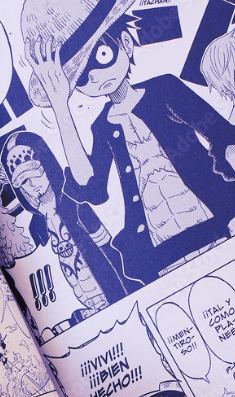
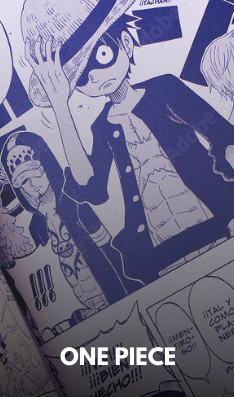
Changes

diff --git a/Discover.html b/Discover.html
@@ -48,7 +48,7 @@ display: table;
     <!--background image on the top of the page-->
     <figure style="margin-left: 0px;margin-right: 0px;margin-top: 0px;margin-bottom: 0px;">
         <picture>
-            <img width="100%" height="120%" src="photos/MANGA (1).png">
+            <img width="100%" height="120%" src="photos/discover.png">
         </picture>
     </figure>
     <!--section about into to recomendations-->
@@ -57,14 +57,38 @@ display: table;
         <h1 style=" margin-top: 0px; padding-top: 20px; font-size:xx-large; color: #ffffff; font-family:Verdana, Geneva, Tahoma, sans-serif;text-align: center; margin-right: 20px;margin-bottom: 20px;margin-left: 20px; ;">DISCOVER</h1>
         <p style="color:#e7dbff; font-family: 'Tahoma'; padding: 15px 20px; size: 10px;text-align: center">Lorem ipsum dolor sit amet, consectetur adipiscing elit. Sed do eiusmod tempor incididunt ut labore et dolore magna aliqua. Ut enim ad minim veniam, quis nostrud exercitation ullamco laboris nisi ut aliquip ex ea commodo consequat. Duis aute irure dolor in reprehenderit in voluptate velit esse cillum dolore eu fugiat nulla pariatur. Excepteur sint occaecat cupidatat non proident, sunt in culpa qui officia deserunt mollit anim id est laborum.</p>
         <br/>
+        <table style="color: #e7dbff;font-family: Verdana, Geneva, Tahoma, sans-serif;margin: auto;margin-left: 35%;margin-right: auto;">
+            <tr>
+                <th style="background-color: #4d347c; color: #7667ce;" >author<sub>s</sub></th>
+                <th style="background-color: #4d347c; color: #7667ce;" >title</th>
+                <th style="background-color: #4d347c; color:  #7667ce;" >year</th>
+            </tr>
+            <tr>
+                <th>원곡 - Stella Jang</th>
+                <th>Villain Utattemita </th>
+                <th>Ado</th>
+            </tr>
+            <tr>
+                <th>なとり - Natori</th>
+                <th>OVERDOSE</th>
+                <th>Ado</th>
+            </tr>
+            <tr>
+                <th>원곡 - LE SSERAFIM</th>
+                <th>Blue Flame cover  </th>
+                <th>Ado</th>
+            </tr>
+        </table>
+        <br>
+        <br>
     </section>
         <!--section action manga links-->
         <section style="background-color: #e7dbff;margin-top: -8px;">
             <h2 style=" margin-top: 0px; padding-top: 20px; font-size:xx-large; color: #4d347c; font-family:Verdana, Geneva, Tahoma, sans-serif;text-align: center; margin-right: 20px;margin-bottom: 20px;margin-left: 20px; ;">ACTION</h2>
             <table  style="margin: 0px auto;">
-                <td><a href="https://myanimelist.net/manga/2/Berserk" target="_blank"><img src="photos/2.png" style=" margin: auto; padding-left: 25px; padding-top: 10%;padding-right: 25px;padding-bottom: 10%;" width="250" height="400" alt="sailor moon"></a></td>
-                <td><a href="https://myanimelist.net/manga/23390/Shingeki_no_Kyojin" target="_blank"><img src="photos/2.png" style="margin: auto; padding-left: 25px; padding-top: 10%;padding-right: 25px;padding-bottom: 10%;" width="250" height="400" alt="one piece"></a></td>
-                <td><a href="https://myanimelist.net/manga/13/One_Piece"target="_blank"><img src="photos/2.png" style=" margin: auto; padding-left: 25px; padding-top: 10%;padding-right: 25px;padding-bottom: 10%;" width="250" height="400" alt="demon slayer"></a></td>
+                <td><a href="https://myanimelist.net/manga/2/Berserk" target="_blank"><img src="photos/6.png" style=" margin: auto; padding-left: 25px; padding-top: 10%;padding-right: 25px;padding-bottom: 10%;" width="250" height="400" alt="Berserk"></a></td>
+                <td><a href="https://myanimelist.net/manga/23390/Shingeki_no_Kyojin" target="_blank"><img src="photos/8.png" style="margin: auto; padding-left: 25px; padding-top: 10%;padding-right: 25px;padding-bottom: 10%;" width="250" height="400" alt="attack on titan"></a></td>
+                <td><a href="https://myanimelist.net/manga/13/One_Piece"target="_blank"><img src="photos/2.png" style=" margin: auto; padding-left: 25px; padding-top: 10%;padding-right: 25px;padding-bottom: 10%;" width="250" height="400" alt="one piece"></a></td>
             </table>
         <br/>
         </section>
@@ -72,29 +96,80 @@ display: table;
         <section style="background-color: #4d347c;margin-top: -8px;">
             <h2 style=" margin-top: 0px; padding-top: 20px; font-size:xx-large; color: #e7dbff; font-family:Verdana, Geneva, Tahoma, sans-serif;text-align: center; margin-right: 20px;margin-bottom: 20px;margin-left: 20px; ;">COMEDY</h2>
             <table  style="margin: 0px auto;">
-                <td><a href="https://myanimelist.net/manga/44347/One_Punch-Man" target="_blank"><img src="photos/2.png" style=" margin: auto; padding-left: 25px; padding-top: 10%;padding-right: 25px;padding-bottom: 10%;" width="250" height="400" alt="sailor moon"></a></td>
-                <td><a href="https://myanimelist.net/manga/30/Ouran_Koukou_Host_Club" target="_blank"><img src="photos/2.png" style="margin: auto; padding-left: 25px; padding-top: 10%;padding-right: 25px;padding-bottom: 10%;" width="250" height="400" alt="one piece"></a></td>
-                <td><a href="https://myanimelist.net/manga/37755/Saiki_Kusuo_no_%CE%A8-nan"target="_blank"><img src="photos/2.png" style=" margin: auto; padding-left: 25px; padding-top: 10%;padding-right: 25px;padding-bottom: 10%;" width="250" height="400" alt="demon slayer"></a></td>
+                <td><a href="https://myanimelist.net/manga/99007/Komi-san_wa_Comyushou_desu?q=komi%20&cat=manga" target="_blank"><img src="photos/11.png" style=" margin: auto; padding-left: 25px; padding-top: 10%;padding-right: 25px;padding-bottom: 10%;" width="250" height="400" alt="Komi can't communicate"></a></td>
+                <td><a href="https://myanimelist.net/manga/30/Ouran_Koukou_Host_Club" target="_blank"><img src="photos/12.png" style="margin: auto; padding-left: 25px; padding-top: 10%;padding-right: 25px;padding-bottom: 10%;" width="250" height="400" alt="Ouran Koukou Host Club"></a></td>
+                <td><a href="https://myanimelist.net/manga/37755/Saiki_Kusuo_no_%CE%A8-nan"target="_blank"><img src="photos/22.png" style=" margin: auto; padding-left: 25px; padding-top: 10%;padding-right: 25px;padding-bottom: 10%;" width="250" height="400" alt="Saiki Kusuo"></a></td>
             </table>
         <br/>
         </section>
-        <!--section comedy manga links-->
-        <section style="background-color: #e7dbff;margin-top: -8px;">
+        <!--section romance manga links-->
+        <section id="romance manga" style="background-color: #e7dbff;margin-top: -8px;">
             <h2 style=" margin-top: 0px; padding-top: 20px; font-size:xx-large; color: #4d347c; font-family:Verdana, Geneva, Tahoma, sans-serif;text-align: center; margin-right: 20px;margin-bottom: 20px;margin-left: 20px; ;">ROMANCE</h2>
             <table  style="margin: 0px auto;">
-                <td><a href="https://myanimelist.net/manga/42451/Horimiya" target="_blank"><img src="photos/2.png" style=" margin: auto; padding-left: 25px; padding-top: 10%;padding-right: 25px;padding-bottom: 10%;" width="250" height="400" alt="sailor moon"></a></td>
-                <td><a href="https://myanimelist.net/manga/102/Fruits_Basket" target="_blank"><img src="photos/2.png" style="margin: auto; padding-left: 25px; padding-top: 10%;padding-right: 25px;padding-bottom: 10%;" width="250" height="400" alt="one piece"></a></td>
-                <td><a href="https://myanimelist.net/manga/92/Bishoujo_Senshi_Sailor_Moon"target="_blank"><img src="photos/2.png" style=" margin: auto; padding-left: 25px; padding-top: 10%;padding-right: 25px;padding-bottom: 10%;" width="250" height="400" alt="demon slayer"></a></td>
+                <td><a href="https://myanimelist.net/manga/42451/Horimiya" target="_blank"><img src="photos/16.png" style=" margin: auto; padding-left: 25px; padding-top: 10%;padding-right: 25px;padding-bottom: 10%;" width="250" height="400" alt="Horimiya"></a></td>
+                <td><a href="https://myanimelist.net/manga/102/Fruits_Basket" target="_blank"><img src="photos/9.png" style="margin: auto; padding-left: 25px; padding-top: 10%;padding-right: 25px;padding-bottom: 10%;" width="250" height="400" alt="FruitsBasket"></a></td>
+                <td><a href="https://myanimelist.net/manga/92/Bishoujo_Senshi_Sailor_Moon"target="_blank"><img src="photos/1.png" style=" margin: auto; padding-left: 25px; padding-top: 10%;padding-right: 25px;padding-bottom: 10%;" width="250" height="400" alt="sailor moon"></a></td>
             </table>
         <br/>
         </section>
-        <!--section comedy manga links-->
-        <section style="background-color: #e7dbff;margin-top: -8px;">
-            <h2 style=" margin-top: 0px; padding-top: 20px; font-size:xx-large; color: #4d347c; font-family:Verdana, Geneva, Tahoma, sans-serif;text-align: center; margin-right: 20px;margin-bottom: 20px;margin-left: 20px; ;">FANTASY</h2>
+        <!--section fantasy manga links-->
+        <section style="background-color: #4d347c;margin-top: -8px;">
+            <h2 style=" margin-top: 0px; padding-top: 20px; font-size:xx-large; color: #e7dbff; font-family:Verdana, Geneva, Tahoma, sans-serif;text-align: center; margin-right: 20px;margin-bottom: 20px;margin-left: 20px; ;">FANTASY</h2>
             <table  style="margin: 0px auto;">
-                <td><a href="https://myanimelist.net/anime/6702/Fairy_Tail" target="_blank"><img src="photos/2.png" style=" margin: auto; padding-left: 25px; padding-top: 10%;padding-right: 25px;padding-bottom: 10%;" width="250" height="400" alt="sailor moon"></a></td>
-                <td><a href="https://myanimelist.net/anime/11061/Hunter_x_Hunter_2011" target="_blank"><img src="photos/2.png" style="margin: auto; padding-left: 25px; padding-top: 10%;padding-right: 25px;padding-bottom: 10%;" width="250" height="400" alt="one piece"></a></td>
-                <td><a href="https://myanimelist.net/anime/20/Naruto"target="_blank"><img src="photos/2.png" style=" margin: auto; padding-left: 25px; padding-top: 10%;padding-right: 25px;padding-bottom: 10%;" width="250" height="400" alt="demon slayer"></a></td>
+                <td><a href="https://myanimelist.net/anime/6702/Fairy_Tail" target="_blank"><img src="photos/7.png" style=" margin: auto; padding-left: 25px; padding-top: 10%;padding-right: 25px;padding-bottom: 10%;" width="250" height="400" alt="Fairy Tail"></a></td>
+                <td><a href="https://myanimelist.net/manga/11/Naruto" target="_blank"><img src="photos/15.png" style="margin: auto; padding-left: 25px; padding-top: 10%;padding-right: 25px;padding-bottom: 10%;" width="250" height="400" alt="naruto"></a></td>
+                <td><a href="https://myanimelist.net/manga/96792/Kimetsu_no_Yaiba"target="_blank"><img src="photos/3.png" style=" margin: auto; padding-left: 25px; padding-top: 10%;padding-right: 25px;padding-bottom: 10%;" width="250" height="400" alt="demon slayer"></a></td>
             </table>
         <br/>
         </section>
+        <!--section slice of life manga links-->
+        <section style="background-color: #e7dbff;margin-top: -8px;">
+            <h2 style=" margin-top: 0px; padding-top: 20px; font-size:xx-large; color: #4d347c; font-family:Verdana, Geneva, Tahoma, sans-serif;text-align: center; margin-right: 20px;margin-bottom: 20px;margin-left: 20px; ;">SLICE OF LIFE</h2>
+            <table  style="margin: 0px auto;">
+                <td><a href="https://myanimelist.net/manga/4632/Oyasumi_Punpun" target="_blank"><img src="photos/17.png" style=" margin: auto; padding-left: 25px; padding-top: 10%;padding-right: 25px;padding-bottom: 10%;" width="250" height="400" alt="Oyasumi Punpun"></a></td>
+                <td><a href="https://myanimelist.net/manga/41629/Hyouka" target="_blank"><img src="photos/18.png" style="margin: auto; padding-left: 25px; padding-top: 10%;padding-right: 25px;padding-bottom: 10%;" width="250" height="400" alt="Hyouka"></a></td>
+                <td><a href="https://myanimelist.net/manga/3378/Kimi_ni_Todoke"target="_blank"><img src="photos/19.png" style=" margin: auto; padding-left: 25px; padding-top: 10%;padding-right: 25px;padding-bottom: 10%;" width="250" height="400" alt="Kimi ni Todoke"></a></td>
+            </table>
+        <br/>
+        </section>
+        <!--section mystery & thrill manga links-->
+        <section style="background-color: #4d347c;margin-top: -8px;">
+            <h2 style=" margin-top: 0px; padding-top: 20px; font-size:xx-large; color: #e7dbff; font-family:Verdana, Geneva, Tahoma, sans-serif;text-align: center; margin-right: 20px;margin-bottom: 20px;margin-left: 20px; ;">MYSTERY & THRILL</h2>
+            <table  style="margin: 0px auto;">
+                <td><a href="https://myanimelist.net/manga/21/Death_Note" target="_blank"><img src="photos/13.png" style=" margin: auto; padding-left: 25px; padding-top: 10%;padding-right: 25px;padding-bottom: 10%;" width="250" height="400" alt="Death Note"></a></td>
+                <td><a href="https://myanimelist.net/manga/56529/Bungou_Stray_Dogs" target="_blank"><img src="photos/20.png" style="margin: auto; padding-left: 25px; padding-top: 10%;padding-right: 25px;padding-bottom: 10%;" width="250" height="400" alt="Bungou Stray Dogs"></a></td>
+                <td><a href="https://myanimelist.net/manga/1706/JoJo_no_Kimyou_na_Bouken_Part_7__Steel_Ball_Run"target="_blank"><img src="photos/5.png" style=" margin: auto; padding-left: 25px; padding-top: 10%;padding-right: 25px;padding-bottom: 10%;" width="250" height="400" alt="JoJo's bizare adventures"></a></td>
+            </table>
+        <br/>
+        </section>
+        <!--section sports manga links-->
+        <section style="background-color: #e7dbff;margin-top: -8px;">
+            <h2 style=" margin-top: 0px; padding-top: 20px; font-size:xx-large; color: #4d347c; font-family:Verdana, Geneva, Tahoma, sans-serif;text-align: center; margin-right: 20px;margin-bottom: 20px;margin-left: 20px; ;">SPORT</h2>
+            <table  style="margin: 0px auto;">
+                <td><a href="https://myanimelist.net/manga/35243/Haikyuu" target="_blank"><img src="photos/14.png" style=" margin: auto; padding-left: 25px; padding-top: 10%;padding-right: 25px;padding-bottom: 10%;" width="250" height="400" alt="Haikyuu"></a></td>
+                <td><a href="https://myanimelist.net/manga/114745/Blue_Lock" target="_blank"><img src="photos/10.png" style="margin: auto; padding-left: 25px; padding-top: 10%;padding-right: 25px;padding-bottom: 10%;" width="250" height="400" alt="Blue Lock"></a></td>
+                <td><a href="https://myanimelist.net/manga/51/Slam_Dunk"target="_blank"><img src="photos/21.png" style=" margin: auto; padding-left: 25px; padding-top: 10%;padding-right: 25px;padding-bottom: 10%;" width="250" height="400" alt="Slam Dunk"></a></td>
+            </table>
+        <br/>
+        </section>
+        <br/>
+        <br/>
+        <footer style="background-color: #7667ce;color:#e7dbff; font-family: 'Tahoma';">
+                    <section style="font-family: 'Tahoma'; margin: auto;margin-left: 45%;margin-right: auto;">
+                        <br/>
+                        
+                            <h3 style="background-color: #7667ce;color:#e7dbff; font-family: 'Tahoma'">LEARN MORE</h3>
+                            <ul style="margin: auto;margin-left: -8%;margin-right: auto;">
+                            <li><a href="https://mail.google.com/mail/u/0/#inbox">CONTACT US</a></li>
+                            <li><a href="https://myanimelist.net/">SOURCES</a></li>
+                            <li><a href="https://www.fandom.com/topics/anime">SHARE YOUR THOUGHTS</a></li>
+                            </ul>
+                            <br/>
+                            <small style="background-color: #7667ce;color:#e7dbff; margin: auto;margin-left: -8%;margin-right: auto;">
+                                Copyright © 2025 ALL ABOUT MANGA PAGE. All Rights Reserved.
+                            </small>
+                        </footer>
+                    </section>
+        </footer>
+    </body>
+    </html>

diff --git a/Manga.html b/Manga.html
@@ -92,9 +92,9 @@ display: table;
             <p style="color:#e7dbff; font-family: 'Tahoma'; padding: 15px 20px; size: 10px;text-align: center">Lorem ipsum dolor sit amet, consectetur adipiscing elit. Sed do eiusmod tempor incididunt ut labore et dolore magna aliqua. Ut enim ad minim veniam, quis nostrud exercitation ullamco laboris nisi ut aliquip ex ea commodo consequat. Duis aute irure dolor in reprehenderit in voluptate velit esse cillum dolore eu fugiat nulla pariatur. Excepteur sint occaecat cupidatat non proident, sunt in culpa qui officia deserunt mollit anim id est laborum.</p> 
         <br/>
         <table  style="margin: 0px auto;">
-            <td><a href="Details.html"><img src="photos/1.png" style=" margin: auto; padding-left: 25px; padding-top: 10%;padding-right: 25px;padding-bottom: 10%;" width="250" height="400" alt="sailor moon"></a></td>
-            <td><a href="Details.html"><img src="photos/2.png" style="margin: auto; padding-left: 25px; padding-top: 10%;padding-right: 25px;padding-bottom: 10%;" width="250" height="400" alt="one piece"></a></td>
-            <td><a href="Details.html"><img src="photos/3.png" style=" margin: auto; padding-left: 25px; padding-top: 10%;padding-right: 25px;padding-bottom: 10%;" width="250" height="400" alt="demon slayer"></a></td>
+            <td><a href="Discover.html/id="><img src="photos/1.png" style=" margin: auto; padding-left: 25px; padding-top: 10%;padding-right: 25px;padding-bottom: 10%;" width="250" height="400" alt="sailor moon"></a></td>
+            <td><a href="Discover.html"><img src="photos/2.png" style="margin: auto; padding-left: 25px; padding-top: 10%;padding-right: 25px;padding-bottom: 10%;" width="250" height="400" alt="one piece"></a></td>
+            <td><a href="Discover.html"><img src="photos/3.png" style=" margin: auto; padding-left: 25px; padding-top: 10%;padding-right: 25px;padding-bottom: 10%;" width="250" height="400" alt="demon slayer"></a></td>
         </table>
     </section> 
     <!--forms about users intrests-->
@@ -199,18 +199,18 @@ display: table;
     </form>
     <br/>
     <br/>
-    <footer style="background-color: #4d347c;color:#e7dbff; font-family: 'Tahoma';">
+    <footer style="background-color: #7667ce;color:#e7dbff; font-family: 'Tahoma';">
                 <section style="font-family: 'Tahoma'; margin: auto;margin-left: 45%;margin-right: auto;">
                     <br/>
                     
-                        <h3 style="background-color: #4d347c;color:#e7dbff; font-family: 'Tahoma'">LEARN MORE</h3>
+                        <h3 style="background-color: #7667ce;color:#e7dbff; font-family: 'Tahoma'">LEARN MORE</h3>
                         <ul style="margin: auto;margin-left: -8%;margin-right: auto;">
-                        <li>CONTACT US</li>
-                        <li>SOURCES</li>
-                        <li>SHARE YOUR THOUGHTS WITH US</li>
+                        <li><a href="https://mail.google.com/mail/u/0/#inbox">CONTACT US</a></li>
+                        <li><a href="https://myanimelist.net/">SOURCES</a></li>
+                        <li><a href="https://www.fandom.com/topics/anime">SHARE YOUR THOUGHTS</a></li>
                         </ul>
                         <br/>
-                        <small style="background-color: #4d347c;color:#e7dbff; margin: auto;margin-left: -8%;margin-right: auto;">
+                        <small style="background-color: #7667ce;color:#e7dbff; margin: auto;margin-left: -8%;margin-right: auto;">
                             Copyright © 2025 ALL ABOUT MANGA PAGE. All Rights Reserved.
                         </small>
                     </footer>
